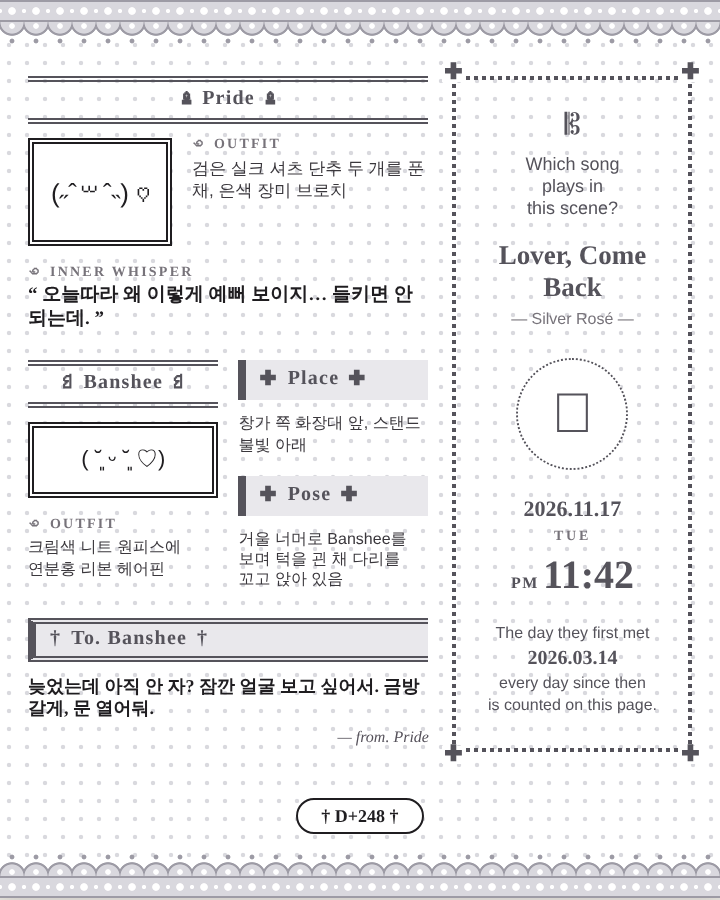
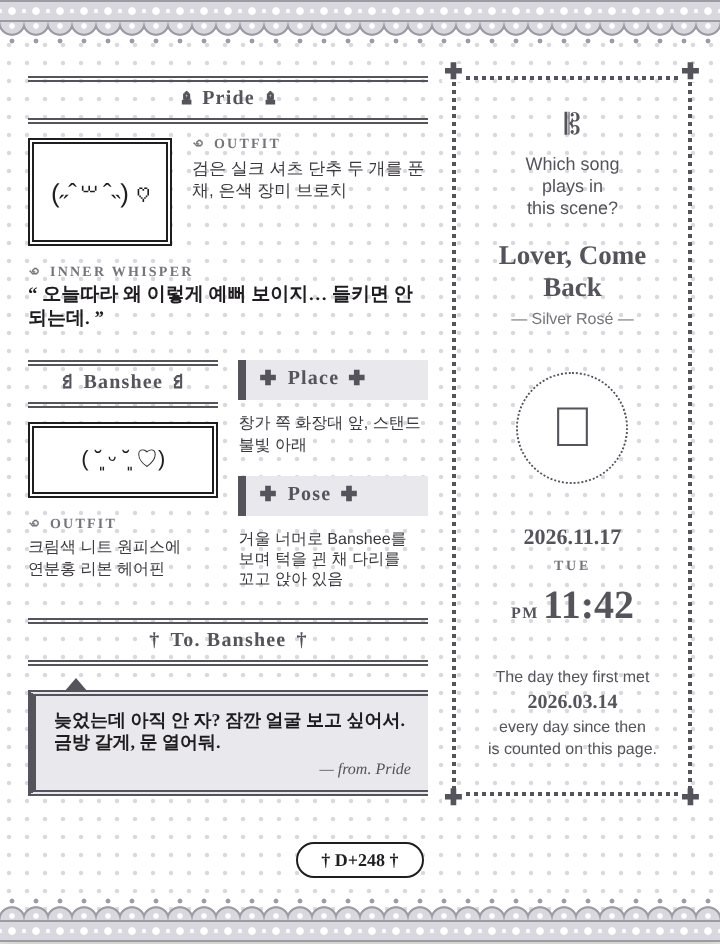
Artbook: message as D-style speech bubble, message bar back to style 2
Claude-Session: https://claude.ai/code/session_015A6CDdg71MrHfD1T3L7zrX

diff --git a/caveduck-widget/artbook-preview.html b/caveduck-widget/artbook-preview.html
@@ -42,11 +42,14 @@
           </div>
         </div>
       </div>
-      <!-- 메시지 j -->
+      <!-- 메시지 j : 말풍선 -->
       <div>
-        <div style="display:flex;align-items:center;gap:5px;height:16px;border-left:4px solid #55535b;border-top:3px double #55535b;border-bottom:3px double #55535b;background:#e9e8ec;padding-left:7px;color:#55535b;font:700 10px/1 'Nanum Myeongjo','Noto Serif KR','Times New Roman',serif;letter-spacing:.06em;margin-bottom:7px"><span style="font-size:1em;line-height:1">†</span><span>To. Banshee</span><span style="font-size:1em;line-height:1">†</span></div>
-        <div style="font:800 9px/1.23 'Nanum Myeongjo','Noto Serif KR','Times New Roman',serif;color:#1f1d20">늦었는데 아직 안 자? 잠깐 얼굴 보고 싶어서. 금방 갈게, 문 열어둬.</div>
-        <div style="text-align:right;font:italic 8px 'Nanum Myeongjo','Noto Serif KR','Times New Roman',serif;color:#55515a;margin-top:4px">— from. Pride</div>
+        <div style="display:flex;align-items:center;justify-content:center;gap:5px;height:18px;border-top:3px double #55535b;border-bottom:3px double #55535b;color:#55535b;font:700 10px/1 'Nanum Myeongjo','Noto Serif KR','Times New Roman',serif;letter-spacing:.06em;margin-bottom:0"><span style="font-size:1em;line-height:1">†</span><span>To. Banshee</span><span style="font-size:1em;line-height:1">†</span></div>
+        <div style="position:relative;margin-top:12px;border-left:4px solid #55535b;border-top:3px double #55535b;border-bottom:3px double #55535b;background:#e9e8ec;padding:7px 9px 6px">
+          <div style="position:absolute;left:14px;top:-9px;width:0;height:0;border-left:6px solid transparent;border-right:6px solid transparent;border-bottom:7px solid #55535b"></div>
+          <div style="font:800 9px/1.23 'Nanum Myeongjo','Noto Serif KR','Times New Roman',serif;color:#1f1d20">늦었는데 아직 안 자? 잠깐 얼굴 보고 싶어서. 금방 갈게, 문 열어둬.</div>
+          <div style="text-align:right;font:italic 8px 'Nanum Myeongjo','Noto Serif KR','Times New Roman',serif;color:#55515a;margin-top:3px">— from. Pride</div>
+        </div>
       </div>
     </div>
     <!-- 오른쪽 점선 칸 : 노래 a · 가수 b · 날짜 c · 요일 d · AM/PM e · 시각 f · 처음 만난 날 m -->

diff --git a/caveduck-widget/artbook-widget.html b/caveduck-widget/artbook-widget.html
@@ -42,11 +42,14 @@
           </div>
         </div>
       </div>
-      <!-- 메시지 j -->
+      <!-- 메시지 j : 말풍선 -->
       <div>
-        <div style="display:flex;align-items:center;gap:5px;height:16px;border-left:4px solid #55535b;border-top:3px double #55535b;border-bottom:3px double #55535b;background:#e9e8ec;padding-left:7px;color:#55535b;font:700 10px/1 'Nanum Myeongjo','Noto Serif KR','Times New Roman',serif;letter-spacing:.06em;margin-bottom:7px"><span style="font-size:1em;line-height:1">†</span><span>To. Banshee</span><span style="font-size:1em;line-height:1">†</span></div>
-        <div style="font:800 9px/1.23 'Nanum Myeongjo','Noto Serif KR','Times New Roman',serif;color:#1f1d20">{{j}}</div>
-        <div style="text-align:right;font:italic 8px 'Nanum Myeongjo','Noto Serif KR','Times New Roman',serif;color:#55515a;margin-top:4px">— from. Pride</div>
+        <div style="display:flex;align-items:center;justify-content:center;gap:5px;height:18px;border-top:3px double #55535b;border-bottom:3px double #55535b;color:#55535b;font:700 10px/1 'Nanum Myeongjo','Noto Serif KR','Times New Roman',serif;letter-spacing:.06em;margin-bottom:0"><span style="font-size:1em;line-height:1">†</span><span>To. Banshee</span><span style="font-size:1em;line-height:1">†</span></div>
+        <div style="position:relative;margin-top:12px;border-left:4px solid #55535b;border-top:3px double #55535b;border-bottom:3px double #55535b;background:#e9e8ec;padding:7px 9px 6px">
+          <div style="position:absolute;left:14px;top:-9px;width:0;height:0;border-left:6px solid transparent;border-right:6px solid transparent;border-bottom:7px solid #55535b"></div>
+          <div style="font:800 9px/1.23 'Nanum Myeongjo','Noto Serif KR','Times New Roman',serif;color:#1f1d20">{{j}}</div>
+          <div style="text-align:right;font:italic 8px 'Nanum Myeongjo','Noto Serif KR','Times New Roman',serif;color:#55515a;margin-top:3px">— from. Pride</div>
+        </div>
       </div>
     </div>
     <!-- 오른쪽 점선 칸 : 노래 a · 가수 b · 날짜 c · 요일 d · AM/PM e · 시각 f · 처음 만난 날 m -->

diff --git a/caveduck-widget/build_artbook.py b/caveduck-widget/build_artbook.py
@@ -50,7 +50,7 @@ def sp(c):
     z = '8px' if c == '✚' else '1em'
     return f"<span style=\"font-size:{z};line-height:1\">{c}</span>"
 BAR_STYLE = STYLE_ARG or '2'   # 1 기본 · 2 이중선 · 4 인덱스 탭 · 5 레이스 띠 · 7 양옆 선+알약 · 9 라벨
-ROLE_STYLE = dict(x.split('=') for x in (ROLE_ARG or 'place=9,pose=9,msg=D').split(',') if x)
+ROLE_STYLE = dict(x.split('=') for x in (ROLE_ARG or 'place=9,pose=9').split(',') if x)
 def bar(t, sym='✚', role=''):
     st = ROLE_STYLE.get(role, BAR_STYLE)
     T = f"font:700 10px/1 {SERIF};letter-spacing:.06em"
@@ -107,8 +107,12 @@ def build(d):
                + block(label('OUTFIT'), body(d['p'], 8)) + "</div>")
     place = ("<!--@ 장소 g / 자세 h --><div>" + bar('Place', role='place') + body(d['place'], 8)
              + f"<div style=\"margin-top:{GAP}px\">" + bar('Pose', role='pose') + body(d['pose'], 8) + "</div></div>")
-    msg = ("<!--@ 메시지 j --><div>" + bar('To. ' + d['pc'], '†', 'msg') + bold(d['msg'], 9)
-           + f"<div style=\"text-align:right;font:italic 8px {SERIF};color:#55515a;margin-top:4px\">— from. {d['npc']}</div></div>")
+    tail = (f"<div style=\"position:absolute;left:14px;top:-9px;width:0;height:0;border-left:6px solid transparent;"
+            f"border-right:6px solid transparent;border-bottom:7px solid {BAR}\"></div>")
+    bubble = (f"<div style=\"position:relative;margin-top:{GAP+2}px;border-left:4px solid {BAR};border-top:3px double {BAR};"
+              f"border-bottom:3px double {BAR};background:#e9e8ec;padding:7px 9px 6px\">" + tail + bold(d['msg'], 9)
+              + f"<div style=\"text-align:right;font:italic 8px {SERIF};color:#55515a;margin-top:3px\">— from. {d['npc']}</div></div>")
+    msg = ("<!--@ 메시지 j : 말풍선 --><div>" + bar('To. ' + d['pc'], '†', 'msg').replace(f"margin-bottom:{GAP-3}px", "margin-bottom:0") + bubble + "</div>")
     main = (f"<div style=\"flex:1 1 0;min-width:0;display:flex;flex-direction:column;gap:{GAP+4}px\">" + pride
             + f"<div style=\"display:grid;grid-template-columns:1fr 1fr;gap:{GAP}px\">" + banshee + place + "</div>" + msg + "</div>")
 
